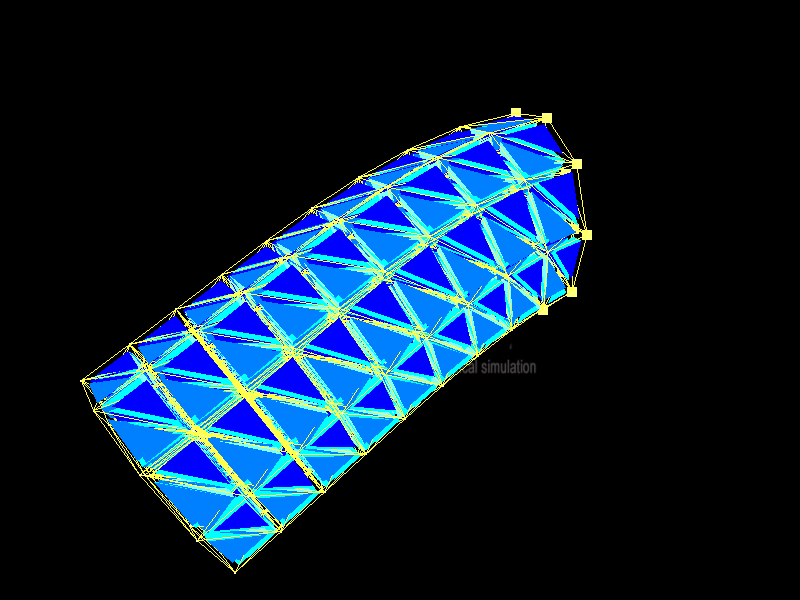
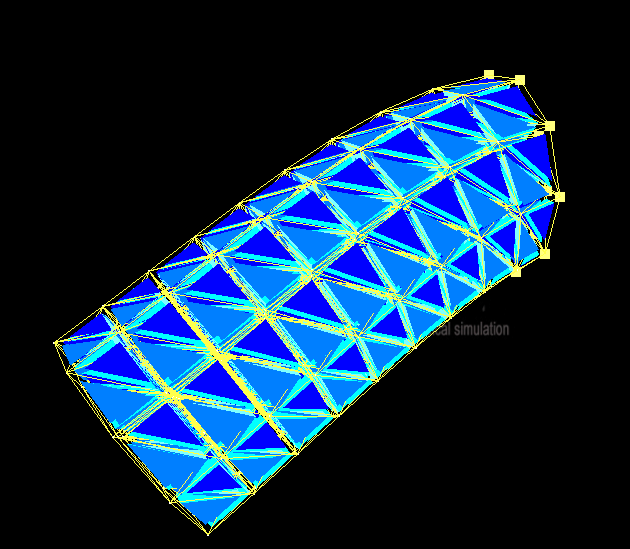
r7265/sofa-dev : UPDATE: step by step topological mapping tutorial.
//partial sync (17/18 changes)//

Changed region(s): [[0.0905, 0.1239, 0.9048, 0.9599]]

diff --git a/examples/Tutorials/StepByStep/TopologicalMapping/2_TopoMapping.html b/examples/Tutorials/StepByStep/TopologicalMapping/2_TopoMapping.html
@@ -13,16 +13,19 @@
 		<br><div id="orangeText">Description:</div><br>
 		In this step we add a mechanical behavior to the tetrahedral mesh using ODE solver, finite element and mass. Thus, the cylinder can be deformed by the gravity or the user.
 
-		<br><div id="orangeText">Components:</div><br>
-                <ul>
-		  <li>. </li>
-		  <li>. </li>
-		  <li>. </li>
-		</ul>
+		<br><div id="orangeText">Components:</div>
+        <ul>
+		  <li><b>EulerImplicitSolver</b> component is used to solve the mechanical ODE system.</li>
+		  <li><b>CGLinearSolver</b> component is used to solve the linare system at each step of the ODE system.</li>
+		  <li><b>TetrahedralCorotationalFEM</b> is used to create tetrahedral finite element on this mechanical system.</li>
+		  <li><b>DiagonalMass</b> discribe a global mass of the mesh elemets.</li>
+		  <li><b>Constraint</b> components are used here to fix on extremity face of the cylinder.</li>		  
+		  </ul>
 
 		<br><div id="orangeText">Results:</div><br>
-		<br>
-		<center><img src="volumeModel_02.png" width="300" name="TutorialTopologyTetra2TriangleTopologicalMapping" align="middle">
+		Adding these components create a mechanical behavior for this cylinder. Thus, adding some gravity on the scene, we can see that the cylinder start to bend.
+		On this step, as there is no surface for visual model, we can see the finite elements.
+		<br><center><img src="volumeModel_02.png" width="300" name="TutorialTopologyTetra2TriangleTopologicalMapping" align="middle">
 
 
                 <br><center><h3><a href="3_TopoMapping.scn">Next</a></center></h3>

diff --git a/examples/Tutorials/StepByStep/TopologicalMapping/6_TopoMapping.html b/examples/Tutorials/StepByStep/TopologicalMapping/6_TopoMapping.html
@@ -11,17 +11,21 @@
 		</center>
 		
 		<br><div id="orangeText">Description:</div><br>
-		This final step is a second pipeline of topological mappings from an hexahedral mesh to a triangular one going throw quads.
+		This final step is a second pipeline of topological mappings from an hexahedral mesh to a triangular one, going throw quads.
 
-		<br><div id="orangeText">Components:</div><br>
-                <ul>
-		  <li>. </li>
-		  <li>. </li>
-		  <li>. </li>
+		<br><div id="orangeText">Components:</div>
+        <ul>
+		  <li>Dynamic topological components to store the quad mesh. </li>
+		  <li><b>Hexa2QuadTopologicalMapping</b> component is used to map Quads on the border of the hexahedral mesh to this container.</li>
+		  <li>Dynamic topological components to store the triangular mesh. </li>
+		  <li><b>Quad2TriangleTopologicalMapping</b> component is used to map Quads to Triangles.</li>
+		  <li>Springs are added to the edges on surface of the mesh using <b>TriangularBendingSprings</b>.</li>
+		  <li>Finally, <b>OglModel</b> can be used to visualise the surface mesh.</li>
 		</ul>
 
 
 		<br><div id="orangeText">Results:</div><br>
+		This last step shows another example of topological mappings with a mechanical behaviour similar to step <i>"Change mesh behaviour"</i>.
 		<br>
 		<center><img src="hexaMapped_02.png" width="300" name="TutorialTopologyTetra2TriangleTopologicalMapping" align="middle">
 

diff --git a/examples/Tutorials/StepByStep/TopologicalMapping/3_TopoMapping.html b/examples/Tutorials/StepByStep/TopologicalMapping/3_TopoMapping.html
@@ -13,13 +13,16 @@
 		<br><div id="orangeText">Description:</div><br>
 		Here is the important step of this tutorial. We add a child node containing the triangular topology which is directly linked to the tetrahedral mesh thanks to topological mapping component.
 		<br><div id="orangeText">Components:</div><br>
-                <ul>
-		  <li>. </li>
-		  <li>. </li>
-		  <li>. </li>
+		In this step, we add a child node to the volume mesh. This new node will handle surfacique mesh. Thus, a last node can be added to put a visual model.
+        <ul>
+		  <li>Dynamic topological components to store surface mesh. </li>
+		  <li><b>Tetra2TriangleTopologicalMapping</b> component is used to map triangles on the border of the tetrahedral mesh to the surfacique topological container.
+		  Container of the parent topology should be put in Data Object1 whereas Container of the border topology should be link to the Data Object2. </li>
+		  <li>Thus, <b>OglModel</b> can be used to visualise the surface mesh.</li>
 		</ul>
 
 		<br><div id="orangeText">Results:</div><br>
+		In this step the mechanical behaviour stay the same. But visual model can now be use to display the surface of the object.
 		<br>
 		<center><img src="mappingTriangle_02.png" width="300" name="TutorialTopologyTetra2TriangleTopologicalMapping" align="middle">
 

diff --git a/examples/Tutorials/StepByStep/TopologicalMapping/5_TopoMapping.html b/examples/Tutorials/StepByStep/TopologicalMapping/5_TopoMapping.html
@@ -14,15 +14,19 @@
 		<br><div id="orangeText">Description:</div><br>
 		This step is not following the previous steps. Indeed, it shows a hexahedra mesh which has already mechanical behavior and could be also linked to surfacique mesh. 
 
-		<br><div id="orangeText">Components:</div><br>
-                <ul>
-		  <li>. </li>
-		  <li>. </li>
-		  <li>. </li>
+		<br><div id="orangeText">Components:</div>
+        <ul>
+		  <li>ODE solver and a linear solver. </li>
+		  <li>A <b>mechanicalObject</b> with geometry point positions.</li>
+		  <li><b>RegularGridTopology</b> is used to create a 3D grid mesh. </li>
+		  <li><b>HexahedronFEMForcefield</b> is used to create tetrahedral finite element on this mechanical system.</li>
+		  <li><b>DiagonalMass</b> discribe a global mass of the mesh elemets.</li>
+		  <li><b>Constraint</b> components are used here to fix the four corners of the uper face of the cube.</li>		  
 		</ul>
 
 
 		<br><div id="orangeText">Results:</div><br>
+		This scene represente a 3D cube mesh under gravity. It is the same configuration as the step <i>"Embedding the Model"</i>. 
 		<br>
 		<center><img src="hexaMesh_02.png" width="300" name="TutorialTopologyTetra2TriangleTopologicalMapping" align="middle">
 

diff --git a/examples/Tutorials/StepByStep/TopologicalMapping/4_TopoMapping.html b/examples/Tutorials/StepByStep/TopologicalMapping/4_TopoMapping.html
@@ -14,14 +14,15 @@
 		<br><div id="orangeText">Description:</div><br>
 		This step shows that it is possible to define mechanical behavior directly on child topology. this can be usefull as often the surfacique mesh is only a small part of the entire topology.
 
-		<br><div id="orangeText">Components:</div><br>
-                <ul>
-		  <li>. </li>
-		  <li>. </li>
-		  <li>. </li>
+		<br><div id="orangeText">Components:</div>
+        <ul>
+		  <li>Springs are added to the edges on surface of the mesh using <b>TriangularBendingSprings</b>.</li>
+		  <li><b>TriangleModel</b> component can be added to interact with the model (use shift + left mouse button).</li>
 		</ul>
 
 		<br><div id="orangeText">Results:</div><br>
+		In this step, edges on the surface of the mesh have springs, thus the cylinder doesn't bend as mush as in previous steps.
+		The interest is that elements in the rest of the cylinder are not taken into account, leading to faster computation.
 		<br>
 		<center><img src="triangleModel.png" width="300" name="TutorialTopologyTetra2TriangleTopologicalMapping" align="middle">
 

diff --git a/examples/Tutorials/StepByStep/TopologicalMapping/1_TopoMapping.html b/examples/Tutorials/StepByStep/TopologicalMapping/1_TopoMapping.html
@@ -16,8 +16,8 @@
 
 		<br><br><div id="orangeText">Components:</div>
                 <ul>
-		  <li>A mesh loader to read mesh file. (not necessary in regular mesh)</li>
-		  <li>A mechanicalObject with geometry point positions.</li>
+		  <li>A <b>meshLoader</b> to read mesh file. (not necessary in regular mesh)</li>
+		  <li>A <b>mechanicalObject</b> with geometry point positions.</li>
 		  <li>Dynamic topological components to store the volume mesh.</li>
 		</ul>
 		<br><br>
